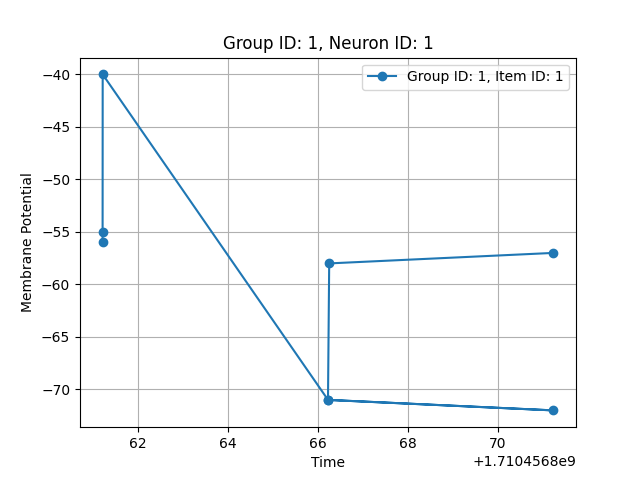
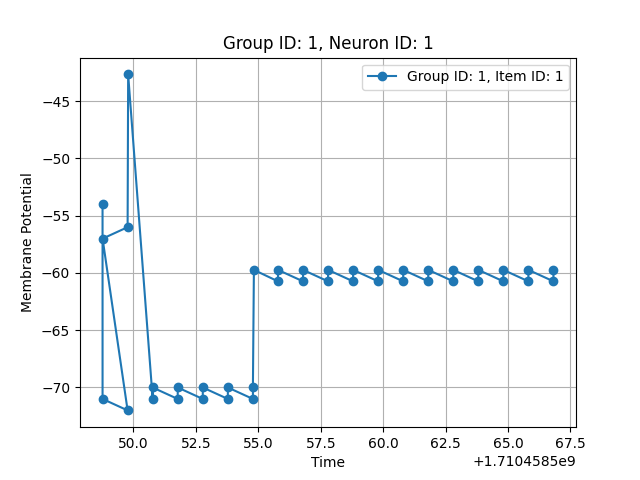
images

diff --git a/plotting/main.py b/plotting/main.py
@@ -1,7 +1,7 @@
 import matplotlib.pyplot as plt
 
 data = []
-with open('../logs/1710456871.log', 'r') as file:
+with open('../logs/1710458559.log', 'r') as file:
     for line in file:
         parts = line.split()
         group_id = int(parts[0])
